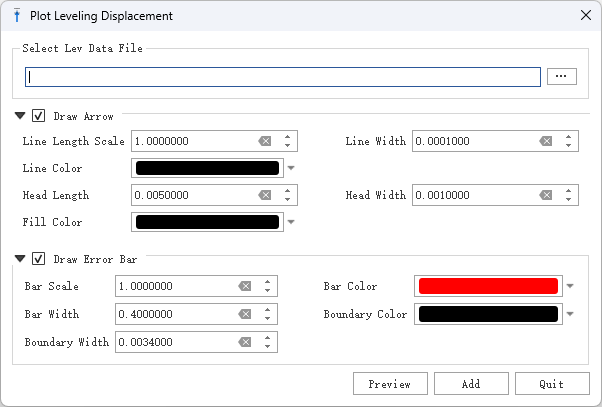
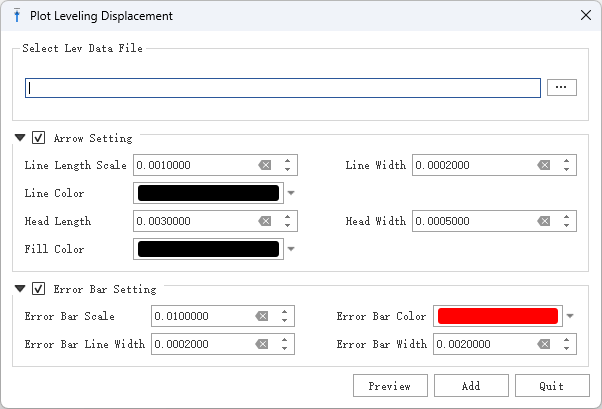
更新 LevelingDisplacement 功能说明与截图

diff --git a/docs/source/3 Function (功能介绍).rst b/docs/source/3 Function (功能介绍).rst
@@ -150,11 +150,11 @@ Plot (绘制)菜单主要包括Focal Mechanism（震源机制）、 GNSS Displac
     .. image:: ../images/menu_image/Plot/dialog_GNSSDisplacement.png
         :align: center
 
-    示例数据： `GNSS形变示例数据 <https://github.com/wanghai1988/qtgahelp/blob/main/testdata/Plot/GNSSDisplacement/GNSS%E5%BD%A2%E5%8F%98%E7%A4%BA%E4%BE%8B%E6%95%B0%E6%8D%AE.gnss>`_
+    .. (可删)示例数据： `GNSS形变示例数据 <https://github.com/wanghai1988/qtgahelp/blob/main/testdata/Plot/GNSSDisplacement/GNSS%E5%BD%A2%E5%8F%98%E7%A4%BA%E4%BE%8B%E6%95%B0%E6%8D%AE.gnss>`_
 
     **使用步骤：**
     
-    STEP 1：选择或输入 GNSS形变数据（后缀为.gnss） 路径，示例数据参见： `GNSS形变数据文件格式 <https://qtgahelpdoc.readthedocs.io/en/latest/4%20File%20Format%20%28%E6%96%87%E4%BB%B6%E6%A0%BC%E5%BC%8F%29.html#gnss>`_ 路径 
+    STEP 1：选择或输入 GNSS形变数据（后缀为.gnss） 路径，示例数据参见： `GNSS形变数据文件格式 <https://qtgahelpdoc.readthedocs.io/en/latest/4%20File%20Format%20%28%E6%96%87%E4%BB%B6%E6%A0%BC%E5%BC%8F%29.html#gnss>`_  
  
     STEP 2：设置GNSS形变Arrow（箭头）、Error Ellipse（误差椭圆），主要包含以下参数：
       * Line Length Scale（线长比例）
@@ -186,7 +186,7 @@ Plot (绘制)菜单主要包括Focal Mechanism（震源机制）、 GNSS Displac
     .. image:: ../images/menu_image/Plot/dialog_LevelingDisplacement.png
         :align: center
 
-    示例数据： `水准形变示例数据 <https://github.com/wanghai1988/qtgahelp/blob/main/testdata/Plot/LevelingDisplacement/%E6%B0%B4%E5%87%86%E5%BD%A2%E5%8F%98%E7%A4%BA%E4%BE%8B%E6%95%B0%E6%8D%AE.lev>`_
+    .. (可删)示例数据： `水准形变示例数据 <https://github.com/wanghai1988/qtgahelp/blob/main/testdata/Plot/LevelingDisplacement/%E6%B0%B4%E5%87%86%E5%BD%A2%E5%8F%98%E7%A4%BA%E4%BE%8B%E6%95%B0%E6%8D%AE.lev>`_
 
     **使用步骤：**
     
@@ -200,6 +200,26 @@ Plot (绘制)菜单主要包括Focal Mechanism（震源机制）、 GNSS Displac
     
     STEP 4：设置输出文件路径（文件格式为geojson），点击Export（输出）按钮即可输出结果文件，勾选Add File To Current Project（添加文件到当前工程）则会将结果文件添加到当前地图工程内。
     
+
+
+    STEP 1：选择或输入 水准形变数据（后缀为.lev） 路径，示例数据参见： `水准形变数据文件格式 <https://qtgahelpdoc.readthedocs.io/en/latest/4%20File%20Format%20%28%E6%96%87%E4%BB%B6%E6%A0%BC%E5%BC%8F%29.html#id3>`_。
+
+    STEP 2：设置Arrow Setting（箭头设置）、Error Bar Setting（误差棒设置），主要包含以下参数：
+      * Line Length Scale（线长比例）
+      * Line Width（线宽）
+      * Line Color（线颜色）
+      * Head Length（箭头长度）
+      * Head Width（箭头宽度）用于设置整个矢量箭头的宽度
+      * Fill Color（填充颜色）用于设置整个矢量箭头的填充色
+      * Error Bar Scale（误差棒比例）用于设置误差棒的比例
+      * Error Bar Color（误差棒颜色）用于设置误差棒的填充颜色
+      * Error Bar Line Width（误差棒线条宽度）用于设置误差棒上/下边界线和中间连接线三条线的线宽
+      * Error Bar Width（误差棒宽度）用于设置误差棒上下边界线的长度
+
+    STEP 3：点击【Preview（预览）】按钮，即可在地图界面查看显示效果
+
+    STEP 4：点击【Add（添加）】按钮则会将当前预览的水准形变数据添加到当前地图工程内。示例数据绘制结果如下图所示
+
     .. image:: ../images/menu_image/Plot/result_LevelingDisplacement.png
         :align: center
 
